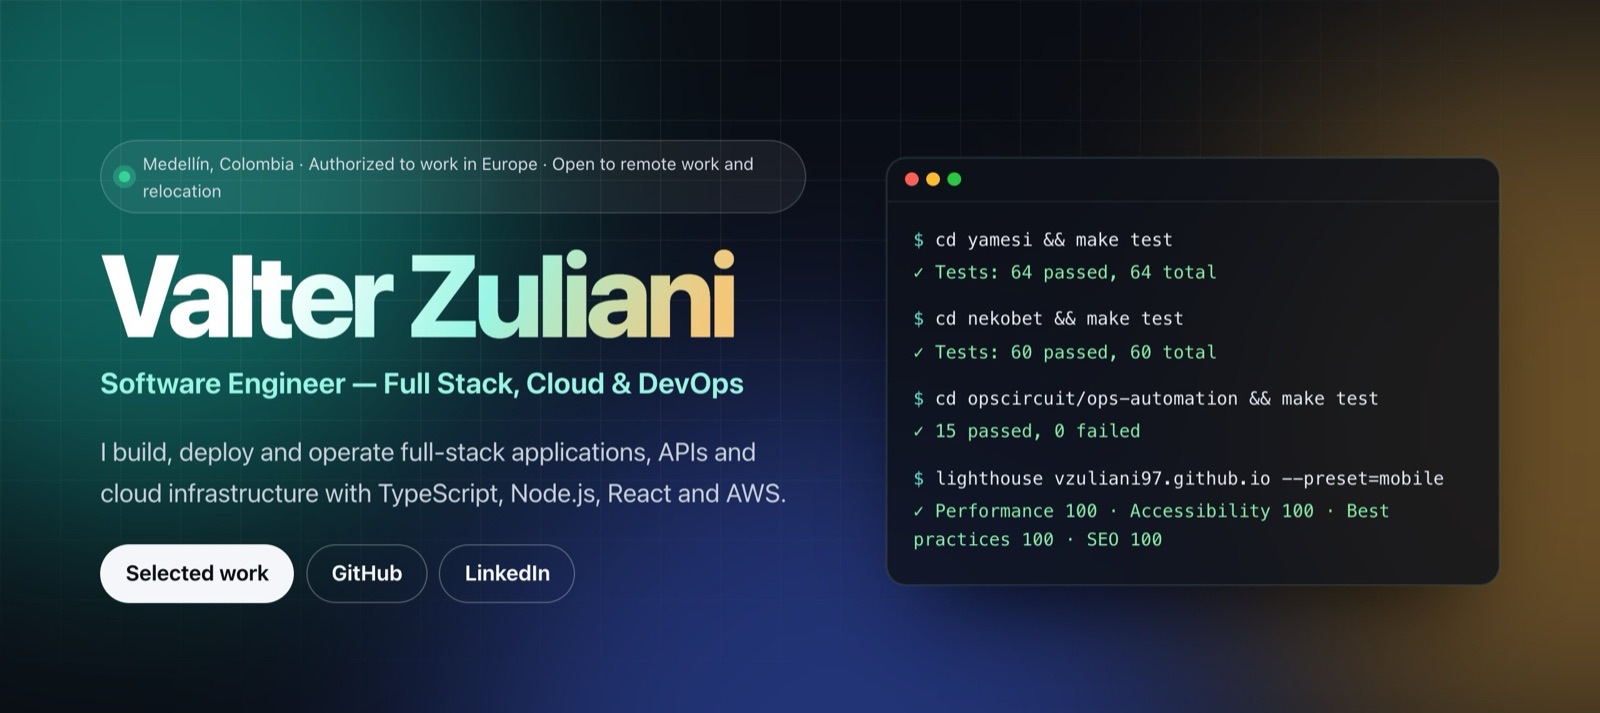
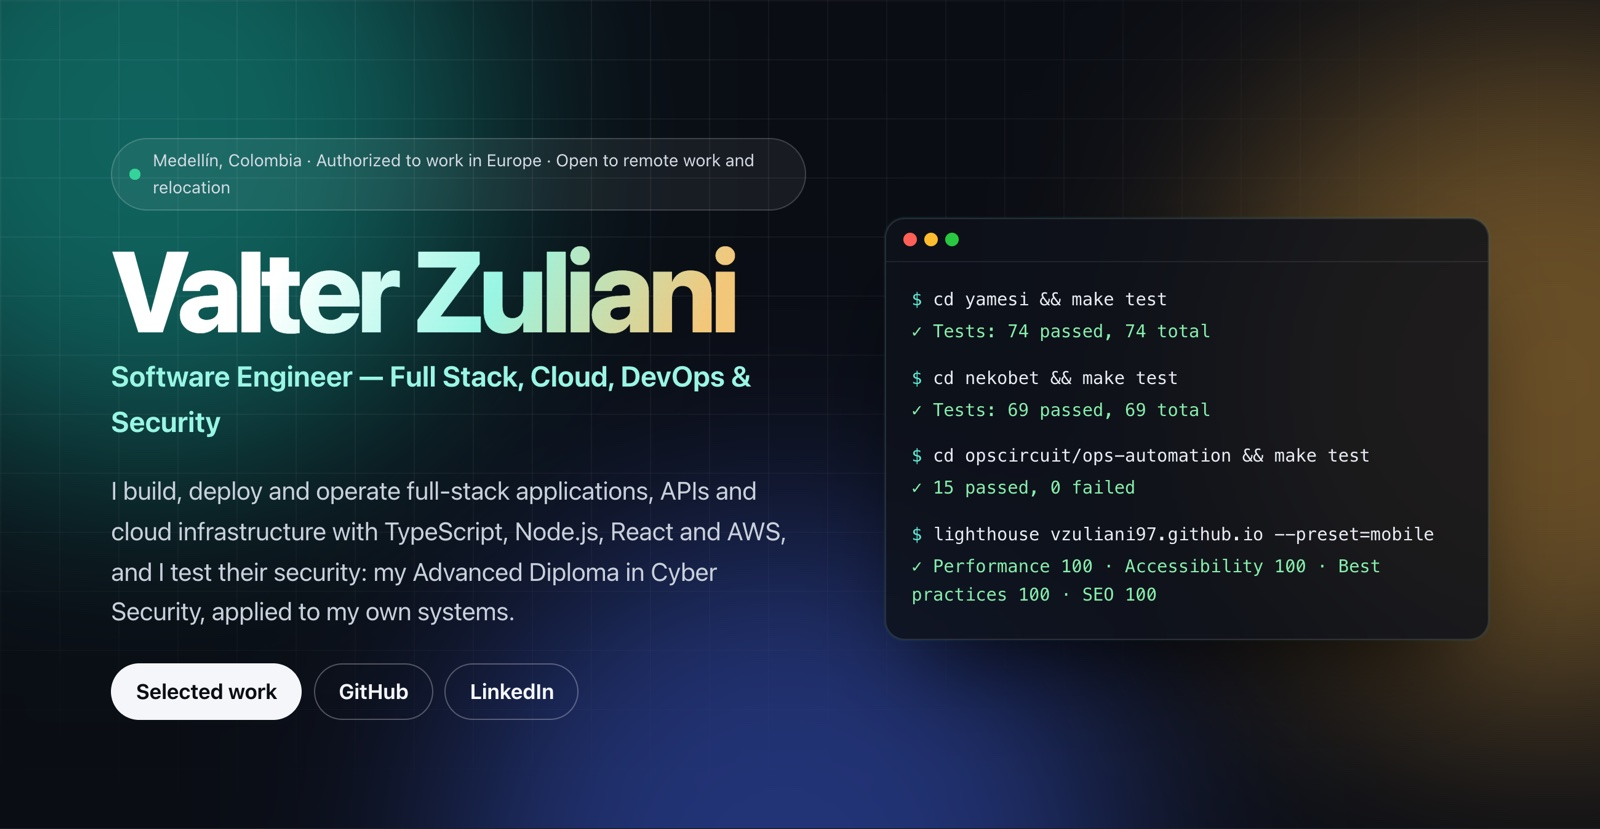
docs: try Yamesi and NekoBet online; security in the headline; 158 tests (74 + 69 + 15)

Changed region(s): [[0.0, 0.1851, 1.0, 1.0], [0.5625, 0.216, 0.625, 0.3086]]

diff --git a/README.md b/README.md
@@ -1,4 +1,4 @@
-<a href="https://vzuliani97.github.io"><img src="assets/banner.jpg" width="100%" alt="Valter Zuliani, Software Engineer: Full Stack, Cloud and DevOps. A terminal shows 64, 60 and 15 passing tests in three repositories and a Lighthouse score of 100."></a>
+<a href="https://vzuliani97.github.io"><img src="assets/banner.jpg" width="100%" alt="Valter Zuliani, Software Engineer: Full Stack, Cloud, DevOps and Security. A terminal shows 74, 69 and 15 passing tests in three repositories and a Lighthouse score of 100."></a>
 
 <p align="center">
   <a href="https://vzuliani97.github.io"><img alt="Portfolio" src="https://img.shields.io/badge/Portfolio-vzuliani97.github.io-0f766e?style=for-the-badge"></a>
@@ -8,15 +8,17 @@
 
 # Hi, I'm Valter
 
-**Software Engineer: Full Stack, Cloud & DevOps.** I build, deploy and operate full-stack applications, APIs and cloud infrastructure with TypeScript, Node.js, React and AWS.
+**Software Engineer: Full Stack, Cloud, DevOps & Security.** I build, deploy and operate full-stack applications, APIs and cloud infrastructure with TypeScript, Node.js, React and AWS, and I test their security: my Advanced Diploma in Cyber Security, applied to my own systems.
+
+**Try it online:** [Yamesi Core](https://yamesi.netlify.app) · [NekoBet](https://nekobet.netlify.app) (its live board opens without an account). Free hosting with synthetic data: the first visit can take about a minute.
 
 Systems Engineer (Universidad de Medellín) · Advanced Diploma of IT in Cyber Security (Australia, AQF Level 6)
 
 Medellín, Colombia · Authorized to work in Europe · Open to remote work and relocation · Spanish and Italian native, English C1
 
-| 139 | Since 2020 | 100 | C1 |
+| 158 | Since 2020 | 100 | C1 |
 |:---:|:---:|:---:|:---:|
-| automated tests across 3 portfolio systems (64 + 60 + 15) | professional software experience | mobile Lighthouse on 3 routes of my portfolio, measured 1 Nov 2026 | English, with native Spanish and Italian |
+| automated tests across 3 portfolio systems (74 + 69 + 15) | professional software experience | mobile Lighthouse on 3 routes of my portfolio, measured 1 Nov 2026 | English, with native Spanish and Italian |
 
 ## Selected work
 
@@ -33,7 +35,7 @@ Medellín, Colombia · Authorized to work in Europe · Open to remote work and r
 - Invoice PDF with each piece's photo, a CUFE calculation that matches the DIAN example and a QR. For demonstration only: not transmitted to or validated by the DIAN.
 - Docker Compose, CI with CodeQL, Gitleaks and an image-metadata check, and a simulated business day (`make demo`).
 
-`64 tests` · `44 real catalog pieces` · `CUFE = DIAN example` · `NestJS` · `React` · `PostgreSQL` · `S3` · `PDFKit` · `Docker`
+`74 tests` · `44 real catalog pieces` · `CUFE = DIAN example` · `NestJS` · `React` · `PostgreSQL` · `S3` · `PDFKit` · `Docker`
 
 <table>
   <tr>
@@ -54,7 +56,7 @@ Built for a real store: the demo runs on 44 pieces from the public catalog of Jo
   <img src="assets/catalog/top-ani-36.jpg" width="15%" alt="Butterfly studs">
 </p>
 
-[Case study](https://vzuliani97.github.io/work/yamesi/) · [Source](https://github.com/vzuliani97/yamesi) · [Every process, step by step](https://github.com/vzuliani97/yamesi#processes-step-by-step) · [Design walkthrough](https://github.com/vzuliani97/yamesi/blob/main/DESIGN_WALKTHROUGH.md)
+**[Try it online](https://yamesi.netlify.app)** · [Case study](https://vzuliani97.github.io/work/yamesi/) · [Source](https://github.com/vzuliani97/yamesi) · [Every process, step by step](https://github.com/vzuliani97/yamesi#processes-step-by-step) · [Design walkthrough](https://github.com/vzuliani97/yamesi/blob/main/DESIGN_WALKTHROUGH.md)
 
 ### OpsCircuit · Cloud Delivery & Incident Automation Lab
 
@@ -93,7 +95,7 @@ Built for a real store: the demo runs on 44 pieces from the public catalog of Jo
 - Casino: a seamless wallet with idempotent, HMAC-signed provider callbacks and rollback tombstones; a lobby of five games with an animated slot machine.
 - Balance and ledger: one conditional `UPDATE`, `CHECK` constraints and append-only movements; idempotent sales; an HMAC-signed B2B API; a login lockout; CI images that Argo CD deploys in OpsCircuit.
 
-`60 tests` · `4 sports live` · `70 retries → 1 sale` · `NestJS` · `PostgreSQL` · `React` · `SSE` · `HMAC` · `Docker`
+`69 tests` · `4 sports live` · `70 retries → 1 sale` · `NestJS` · `PostgreSQL` · `React` · `SSE` · `HMAC` · `Docker`
 
 <table>
   <tr>
@@ -103,7 +105,7 @@ Built for a real store: the demo runs on 44 pieces from the public catalog of Jo
   </tr>
 </table>
 
-[Case study](https://vzuliani97.github.io/work/nekobet/) · [Source](https://github.com/vzuliani97/nekobet) · [Every process, step by step](https://github.com/vzuliani97/nekobet#processes-step-by-step) · [Concurrency experiment](https://github.com/vzuliani97/nekobet/blob/main/docs/concurrency-experiment.md) (local and reproducible, not a production benchmark) · [Design walkthrough](https://github.com/vzuliani97/nekobet/blob/main/DESIGN_WALKTHROUGH.md)
+**[Try it online](https://nekobet.netlify.app)** · [Case study](https://vzuliani97.github.io/work/nekobet/) · [Source](https://github.com/vzuliani97/nekobet) · [Every process, step by step](https://github.com/vzuliani97/nekobet#processes-step-by-step) · [Concurrency experiment](https://github.com/vzuliani97/nekobet/blob/main/docs/concurrency-experiment.md) (local and reproducible, not a production benchmark) · [Design walkthrough](https://github.com/vzuliani97/nekobet/blob/main/DESIGN_WALKTHROUGH.md)
 
 ### Applied Cyber Security · My Diploma, Applied to My Own Apps
 
@@ -115,6 +117,8 @@ Built for a real store: the demo runs on 44 pieces from the public catalog of Jo
 - Uploaded photos kept their GPS coordinates, sellers received the costs behind the admin-only margin, and the cluster's ports were open to the local network.
 
 **What else it has:** a risk register with 12 risks rated before and after controls, and an identity and access review of every person and machine that can act on the systems.
+
+**Online too:** Yamesi and NekoBet keep these controls on the internet and add exact CORS, a Content Security Policy limited to their API, per-client request limits, and a database-name check before any data reset.
 
 `12 findings, all fixed` · `9 scored with CVSS 3.1` · `OWASP WSTG` · `38 attacks in both apps' CI` · `risk register` · `identity review`
 
